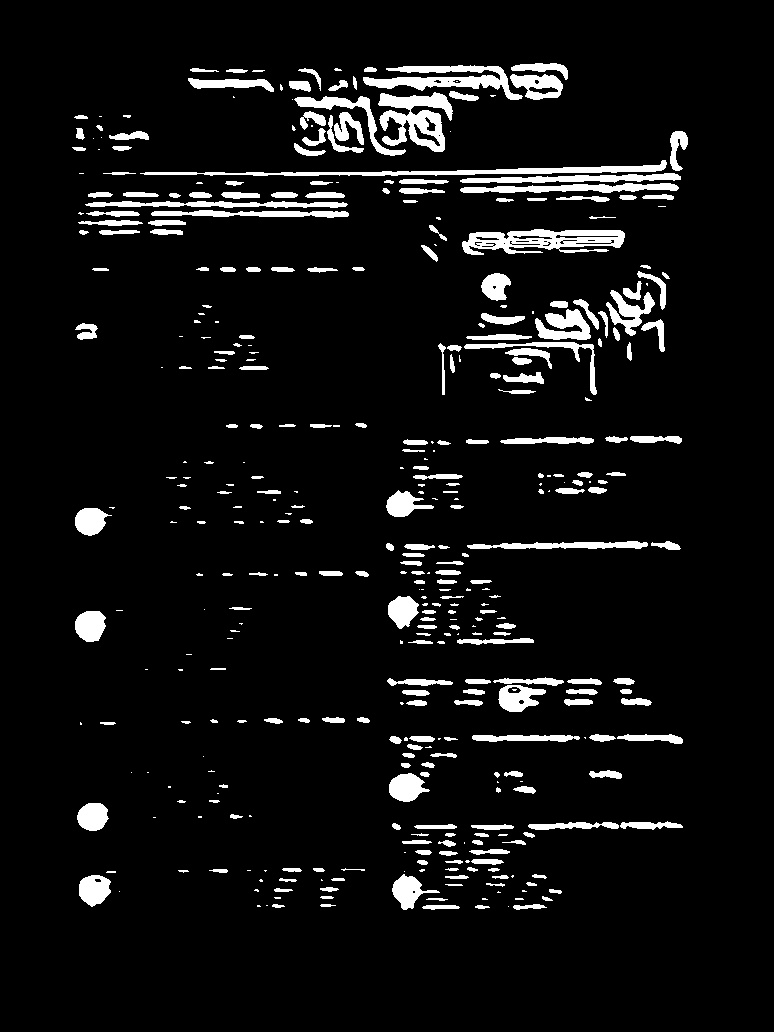
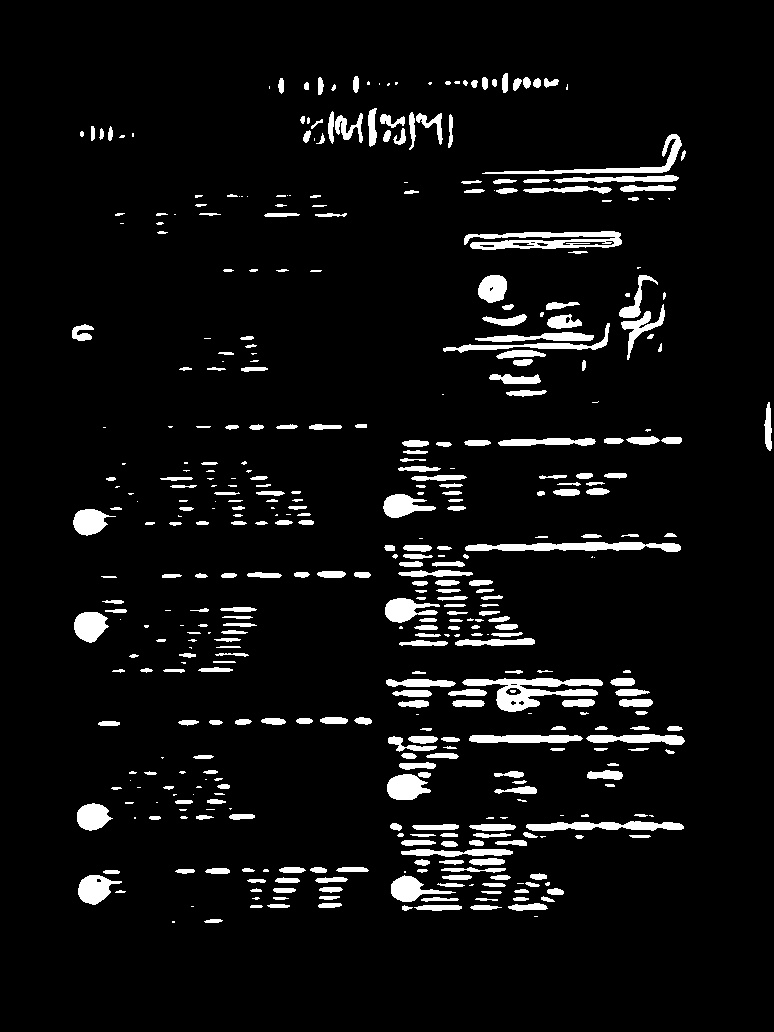
manual image warping implementation
designating 4 spots of image by mouse, then warp the image

diff --git a/ASP.py b/ASP.py
@@ -9,21 +9,36 @@ import imutils
 
 
 mouse_is_pressing = False
-start_x, starty = -1, -1
+clickX, clickY = -1, -1
+clickCoordinates = []
 
 
-def mouse_callback(event,x,y,flags,param):
-	global start_x, start_y,mouse_is_pressing
+
+
+def mouseCallbackSpot(event,x,y,flags,param):
+	global clickX, clickY, clickCount, clickCoordinates
 
 	if event == cv2.EVENT_LBUTTONDOWN:
 		mouse_is_pressing = True
-		start_x, start_y = x, y
+		clickX, clickY = x, y
+		clickCoordinates.append([clickX, clickY])
+
+
+
+
+
+def mouseCallbackROI(event,x,y,flags,param):
+	global clickX, clickY,mouse_is_pressing
+
+	if event == cv2.EVENT_LBUTTONDOWN:
+		mouse_is_pressing = True
+		clickX, clickY = x, y
 
 
 	elif event == cv2.EVENT_LBUTTONUP:
 		mouse_is_pressing = False
-		# 원본 영역에서 두 점 (start_y, start_x), (x,y)로 구성되는 사각영역을 잘라내어 변수 img_cat이 참조하도록 합니다.
-		ROI = thresh[ start_y:y, start_x:x]
+		# 원본 영역에서 두 점 (clickY, clickX), (x,y)로 구성되는 사각영역을 잘라내어 변수 img_cat이 참조하도록 합니다.
+		ROI = thresh[ clickY:y, clickX:x]
 		unique, counts = np.unique(ROI, return_counts=True)
 
 		print("validity of chosen area")
@@ -46,26 +61,59 @@ def mouse_callback(event,x,y,flags,param):
 src = cv2.imread("unmarked.jpg", cv2.IMREAD_COLOR)
 height, width, channel = src.shape
 
+cv2.imshow("UnmarkedOriginal", src)
+cv2.setMouseCallback('UnmarkedOriginal', mouseCallbackSpot)
+
+
+print("Click 4 spot of the image, starting from left-upper side, clockwise")
+print("After that, press any key")
+cv2.waitKey(0)
+cv2.destroyAllWindows()
+print(clickCoordinates)
+
+
+srcPoint=np.array(clickCoordinates, dtype=np.float32)
+clickCoordinates = []
+
 # assign 4 test paper's edges' coordinates and warp it to the original image size
 # srcPoint=np.array([[66, 36], [699, 31], [734, 977], [41, 973]], dtype=np.float32) # for imageSet 1
-srcPoint=np.array([[72, 57], [692, 54], [758, 976], [39, 995]], dtype=np.float32) # for imageSet 2
+# srcPoint=np.array([[72, 57], [692, 54], [758, 976], [39, 995]], dtype=np.float32) # for imageSet 2
 dstPoint=np.array([[0, 0], [width, 0], [width, height], [0, height]], dtype=np.float32)
 matrix = cv2.getPerspectiveTransform(srcPoint, dstPoint)
 # dstUnmarked : warped testing paper with no mark as original size
 dstUnmarked = cv2.warpPerspective(src, matrix, (width, height))
+cv2.imshow("UnmarkedOriginal", dstUnmarked)
 
 
 # read marked image
 src = cv2.imread("marked.jpg", cv2.IMREAD_COLOR)
 height, width, channel = src.shape
 
+
+cv2.imshow("markedOriginal", src)
+cv2.setMouseCallback('markedOriginal', mouseCallbackSpot)
+
+
+print("Click 4 spot of the image, starting from left-upper side, clockwise")
+print("After that, press any key")
+cv2.waitKey(0)
+cv2.destroyAllWindows()
+print(clickCoordinates)
+
+
+srcPoint=np.array(clickCoordinates, dtype=np.float32)
+clickCoordinates = []
+
+
+
 # assign 4 test paper's edges' coordinates and warp it to the original image size
 # srcPoint=np.array([[210, 220], [641, 228], [682, 953], [50, 875]], dtype=np.float32) # for imageSet 1
-srcPoint=np.array([[65, 39], [692, 48], [751, 987], [11, 996]], dtype=np.float32) # for imageSet 2
+# srcPoint=np.array([[65, 39], [692, 48], [751, 987], [11, 996]], dtype=np.float32) # for imageSet 2
 dstPoint=np.array([[0, 0], [width, 0], [width, height], [0, height]], dtype=np.float32)
 matrix = cv2.getPerspectiveTransform(srcPoint, dstPoint)
 # dstMarked : warped testing paper with markings as original size
 dstMarked = cv2.warpPerspective(src, matrix, (width, height))
+cv2.imshow("MarkedOriginal", dstMarked)
 
 
 # convert the images to grayscale
@@ -134,7 +182,7 @@ cv2.imshow("UnmarkedOriginal", grayA)
 cv2.imshow("MarkedOriginal", grayB)
 cv2.imshow("Diff", diff)
 cv2.imshow("Thresh", thresh)
-cv2.setMouseCallback('Thresh', mouse_callback)
+cv2.setMouseCallback('Thresh', mouseCallbackROI)
 # cv2.imshow("Minus", minus)
 cv2.waitKey(0)
 cv2.destroyAllWindows()
